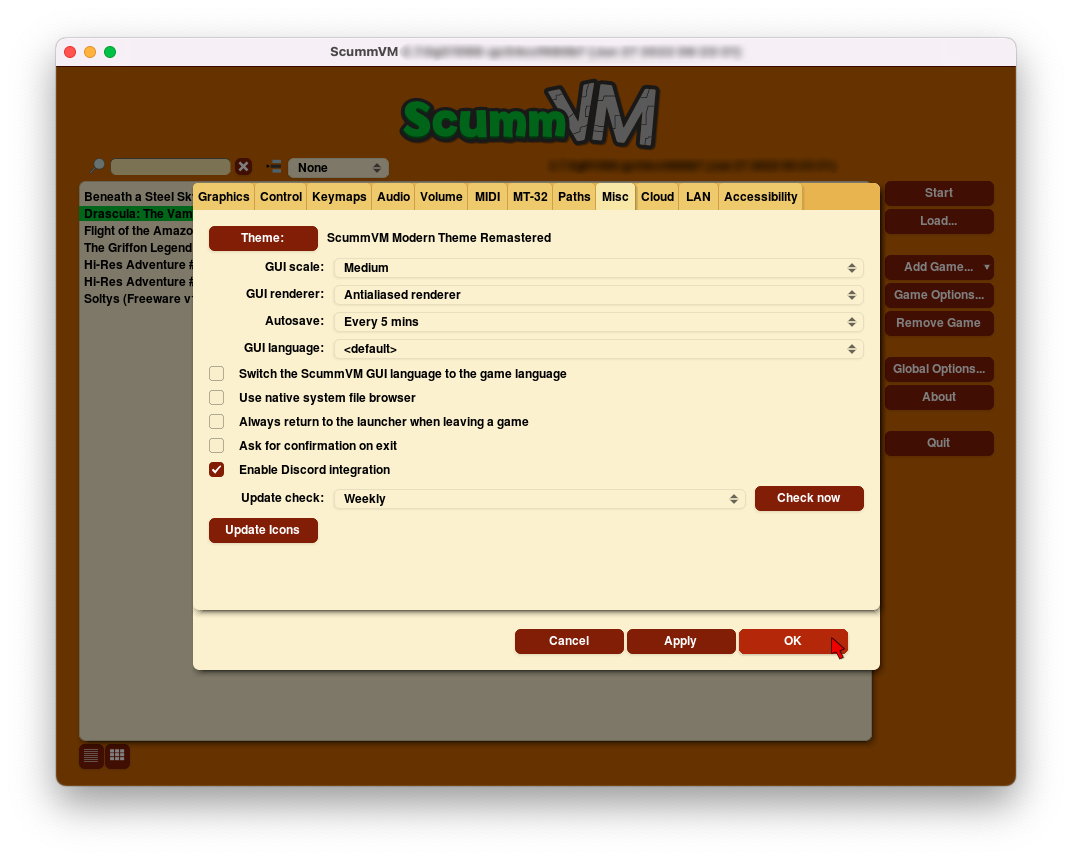
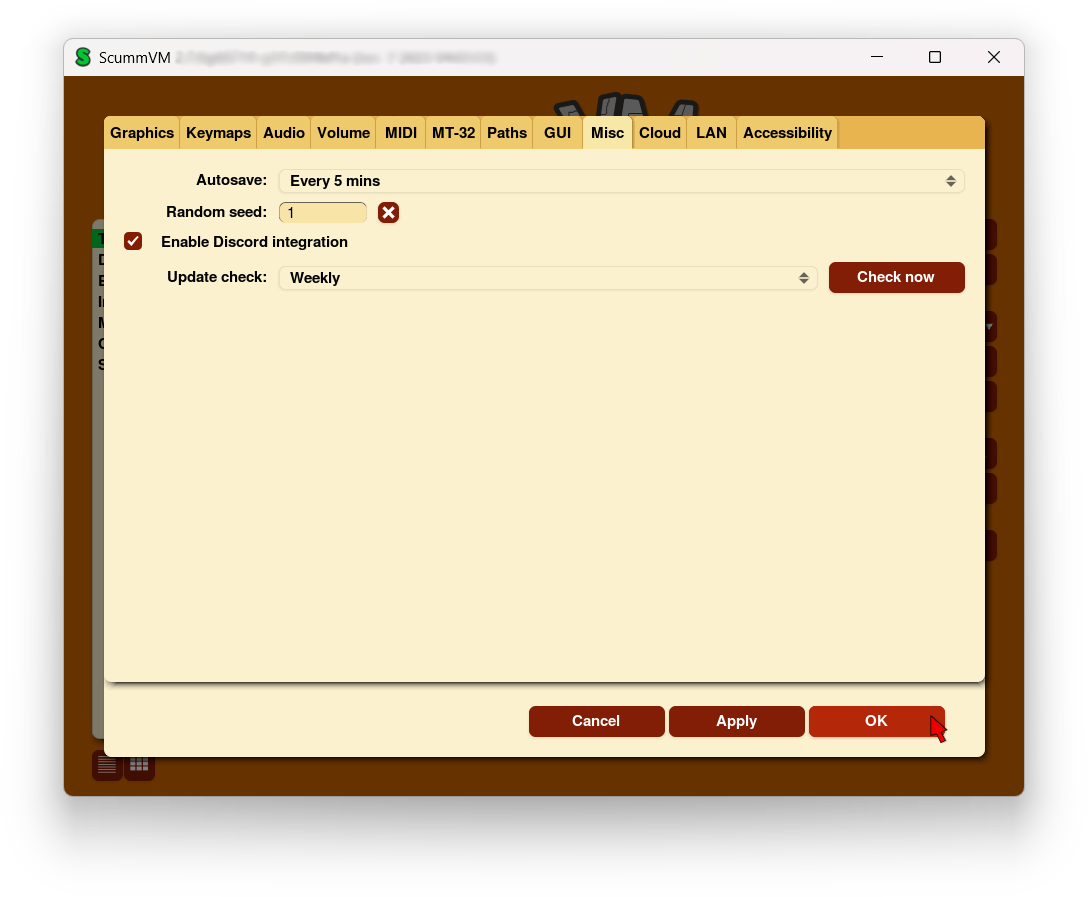
DOCS: adds GUI page and updates Misc settings page

diff --git a/doc/docportal/settings/gui.rst b/doc/docportal/settings/gui.rst
@@ -1,0 +1,77 @@
+=====================
+GUI
+=====================
+
+Use this tab to the GUI tab to change the look and feel of the ScummVM graphical user interface. 
+
+From the Launcher, select **Global Options**, if necessary click the **>** scroll arrow until the GUI tab is visible, and then select the **GUI** tab.
+
+
+.. figure:: ../images/settings/gui.png
+
+    The GUI tab in the global settings
+
+All settings can also be changed in the :doc:`../advanced_topics/configuration_file`. The configuration key is listed in italics after each setting description.
+
+,,,,,,,,,,,,,,
+
+.. _theme:
+
+Theme
+	Changes the visual appearance of the ScummVM Launcher
+
+	*gui_theme*
+
+GUI scale
+	Scale the ScummVM GUI to be bigger or smaller. Using a larger scale can help to make the text easier to read when using ScummVM on a big screen.
+
+	*gui_scale*
+
+GUI renderer
+	Defines how the ScummVM GUI is rendered; normal or antialiased.
+
+	*gui_renderer*
+
+GUI language
+	Chooses the language of the ScummVM Launcher.
+
+	*gui_language*
+
+.. _guilanguage:
+
+Switch the ScummVM GUI language to the game language
+	If ticked, the Launcher language is the same as the game language.
+
+	*gui_use_game_language*
+
+.. _guibrowser:
+
+Use native system file browser
+	Uses the system file browser instead of the ScummVM browser.
+
+	*gui_browser_native*
+
+.. _guireturn:
+
+Always return to the launcher when leaving a game
+	If ticked, removes the **Quit** option from the Global Main Menu. Only the **Return to Launcher** option remains.
+
+	*gui_return_to_launcher_at_exit*
+
+.. _guiconfirm:
+
+Ask for confirmation on exit
+	If ticked, a confirmation dialog appears when you choose **Quit** or **Return to Launcher** from the Global Main Menu.
+
+	*confirm_exit*
+
+.. _updateicons:
+
+Update Icons
+	Click on the Update Icons button to download new or updated artwork for game icons. ScummVM will scan to find applicable icons; once these have been found, click on the **Download** button in the pop up window to start the download. Click the **Hide** button to close the window and continue the download in the background. Use the **Cancel download** button to cancel the download.
+
+.. figure:: ../images/settings/update_icons.png
+
+	The Update Icons window
+
+	The icon packs can also be downloaded manually from https://downloads.scummvm.org/frs/icons/ and must be placed in the :ref:`Icon Path <iconspath>`. The packs are incremental and you need all of them to have all the available icons and not just the most recent pack.

diff --git a/doc/docportal/settings/misc.rst b/doc/docportal/settings/misc.rst
@@ -14,23 +14,6 @@ All settings can also be changed in the :doc:`../advanced_topics/configuration_f
 
 ,,,,,,,,,,,,,,,,,
 
-.. _theme:
-
-Theme
-	Changes the visual appearance of the ScummVM Launcher
-
-	*gui_theme*
-
-GUI scale
-	Scale the ScummVM GUI to be bigger or smaller. Using a larger scale can help to make the text easier to read when using ScummVM on a big screen.
-
-	*gui_scale*
-
-GUI renderer
-	Defines how the ScummVM GUI is rendered; normal or antialiased.
-
-	*gui_renderer*
-
 .. _autosave:
 
 Autosave
@@ -38,50 +21,10 @@ Autosave
 
 	*autosave_period*
 
+Random seed
+	Every time you start ScummVM, a random seed is generated. Use this option to set a fixed seed, which ensures that random events in games play out the same way every time. 
 
-GUI language
-	Chooses the language of the ScummVM Launcher.
-
-	*gui_language*
-
-.. _guilanguage:
-
-Switch the ScummVM GUI language to the game language
-	If ticked, the Launcher language is the same as the game language.
-
-	*gui_use_game_language*
-
-.. _guibrowser:
-
-Use native system file browser
-	Uses the system file browser instead of the ScummVM browser.
-
-	*gui_browser_native*
-
-.. _guireturn:
-
-Always return to the launcher when leaving a game
-	If ticked, removes the **Quit** option from the Global Main Menu. Only the **Return to Launcher** option remains.
-
-	*gui_return_to_launcher_at_exit*
-
-.. _guiconfirm:
-
-Ask for confirmation on exit
-	If ticked, a confirmation dialog appears when you choose **Quit** or **Return to Launcher** from the Global Main Menu.
-
-	*confirm_exit*
-
-.. _updateicons:
-
-Update Icons
-	Click on the Update Icons button to download new or updated artwork for game icons. ScummVM will scan to find applicable icons; once these have been found, click on the **Download** button in the pop up window to start the download. Click the **Hide** button to close the window and continue the download in the background. Use the **Cancel download** button to cancel the download.
-
-.. figure:: ../images/settings/update_icons.png
-
-	The Update Icons window
-
-	The icon packs can also be downloaded manually from https://downloads.scummvm.org/frs/icons/ and must be placed in the :ref:`Icon Path <iconspath>`. The packs are incremental and you need all of them to have all the available icons and not just the most recent pack.
-
+	*random_seed*
+	
 Enable Discord Integration
 	Use this option to automatically check for updates to ScummVM. Click the Check now button to manually check for updates.

diff --git a/doc/docportal/index.rst b/doc/docportal/index.rst
@@ -29,17 +29,22 @@
       :glob:
       :hidden:
 
-      settings/game
-      settings/backend
-      settings/graphics
-      settings/control
-      settings/keymaps
-      settings/audio
-      settings/paths
-      settings/misc
-      settings/cloud
-      settings/lan
       settings/accessibility
+      settings/audio
+      settings/backend
+      settings/cloud
+      settings/control
+      settings/game
+      settings/gui
+      settings/graphics
+      settings/keymaps
+      settings/lan
+      settings/misc
+      settings/paths
+      
+      
+      
+    
 
 
 .. toctree::
